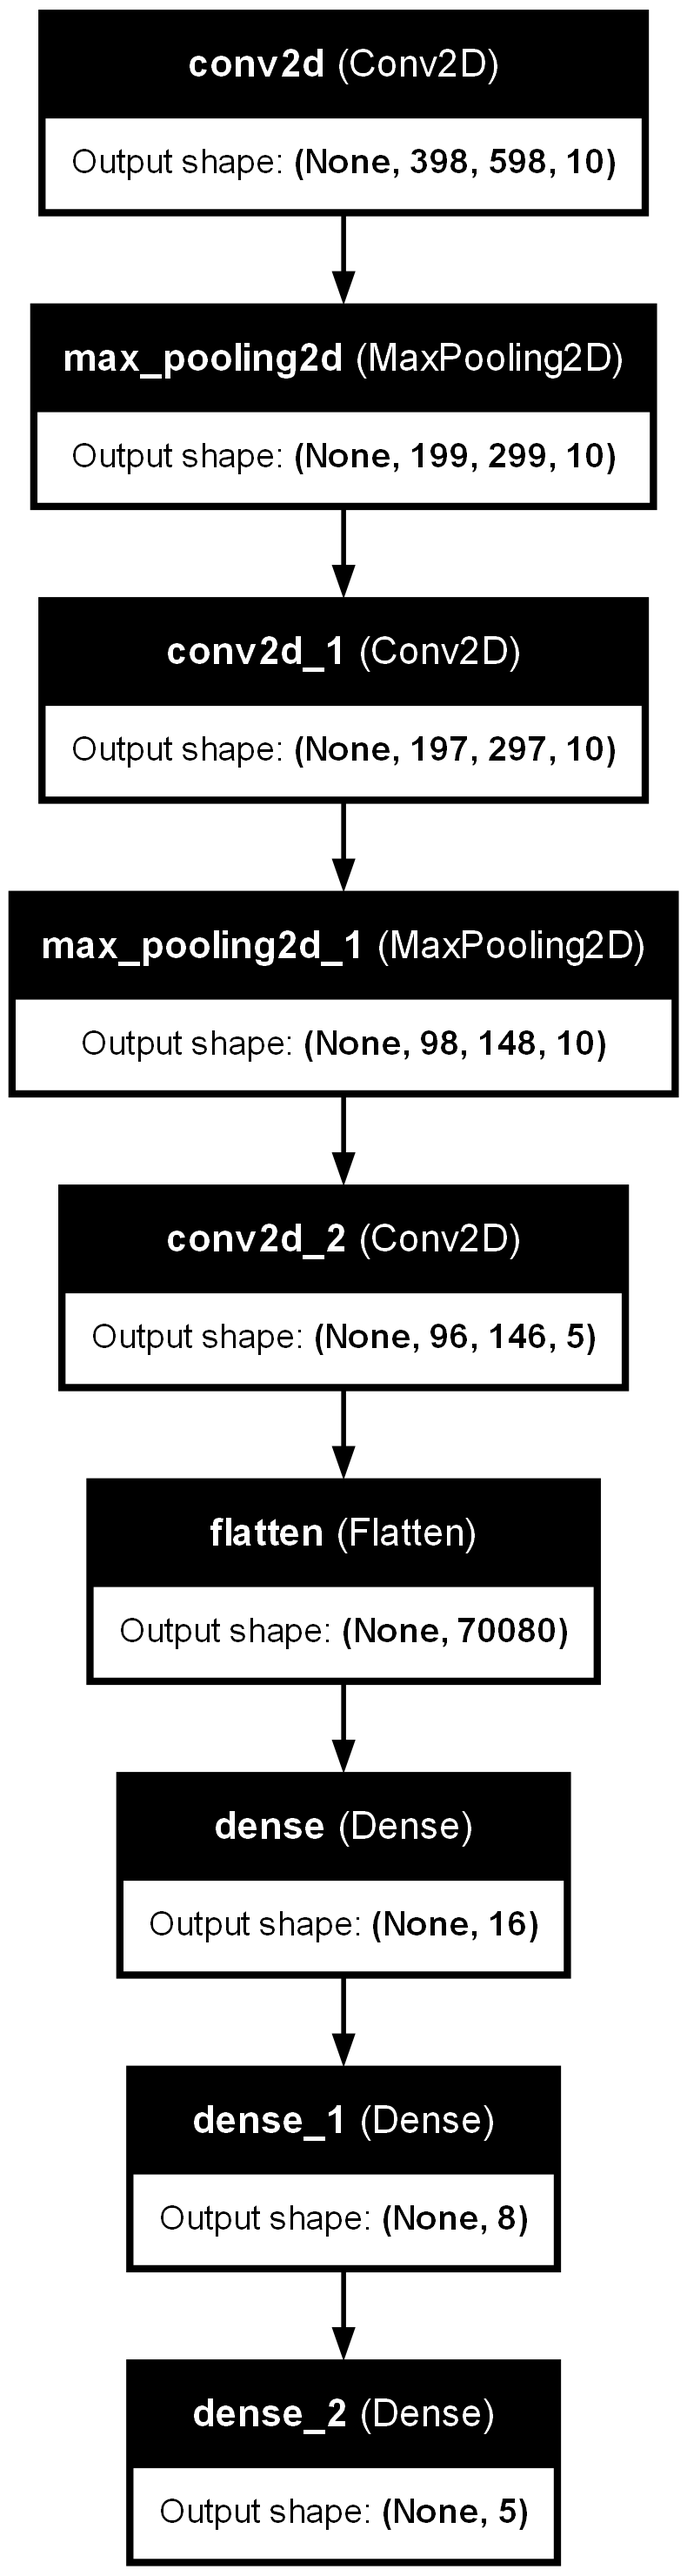
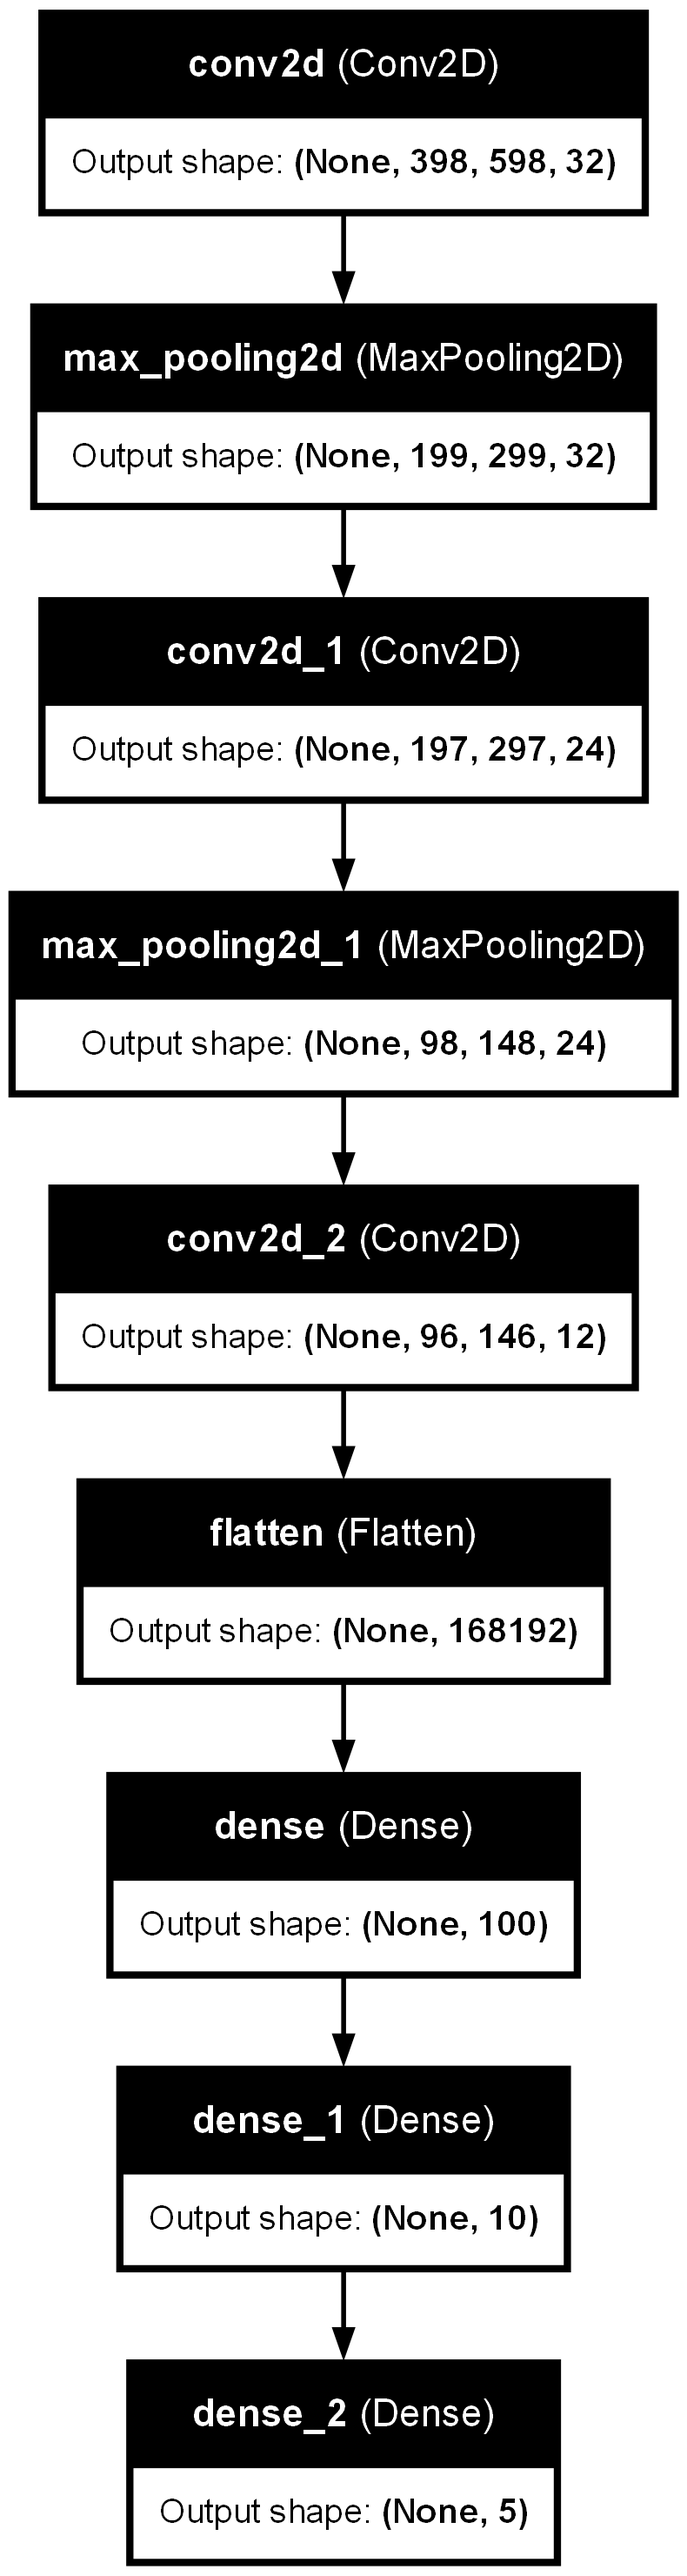
update model

diff --git a/Model.py b/Model.py
@@ -30,21 +30,21 @@ class Model_CNN_IR:
         #create CNN model
         model = tf.keras.Sequential([
             tf.keras.layers.Input(shape=input_shape),
-            tf.keras.layers.Conv2D(10, kernel_size=(3, 3),activation='relu'),
+            tf.keras.layers.Conv2D(32, kernel_size=(3, 3),activation='relu'),
             tf.keras.layers.MaxPooling2D(pool_size=(2, 2)),
-            tf.keras.layers.Conv2D(10, kernel_size=(3, 3), activation='relu'),
+            tf.keras.layers.Conv2D(24, kernel_size=(3, 3), activation='relu'),
             tf.keras.layers.MaxPooling2D(pool_size=(2, 2)),
-            tf.keras.layers.Conv2D(5, kernel_size=(3, 3), activation='relu'),
+            tf.keras.layers.Conv2D(12, kernel_size=(3, 3), activation='relu'),
             tf.keras.layers.Flatten(),
-            tf.keras.layers.Dense(16, activation='relu'),
-            tf.keras.layers.Dense(8, activation='relu'),
+            tf.keras.layers.Dense(100, activation='relu'),
+            tf.keras.layers.Dense(10, activation='relu'),
             tf.keras.layers.Dense(output_dim, activation='softmax')
         ])
         model.compile(optimizer='adam', loss='sparse_categorical_crossentropy', metrics=['accuracy'])
         self.model = model
 
     def train_model(self):
-        self.history = self.model.fit(self.x_train, self.y_train, epochs=300, verbose=1)
+        self.history = self.model.fit(self.x_train, self.y_train, epochs=100, verbose=1)
 
     def model_summary(self):
         self.model.summary()
